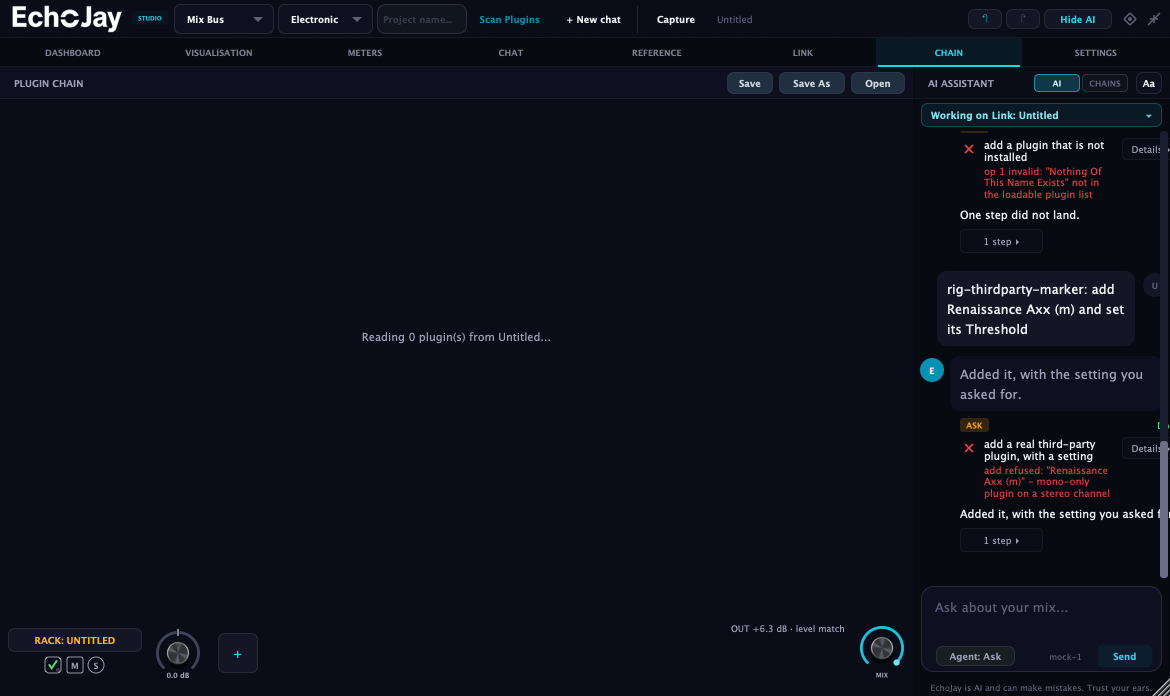
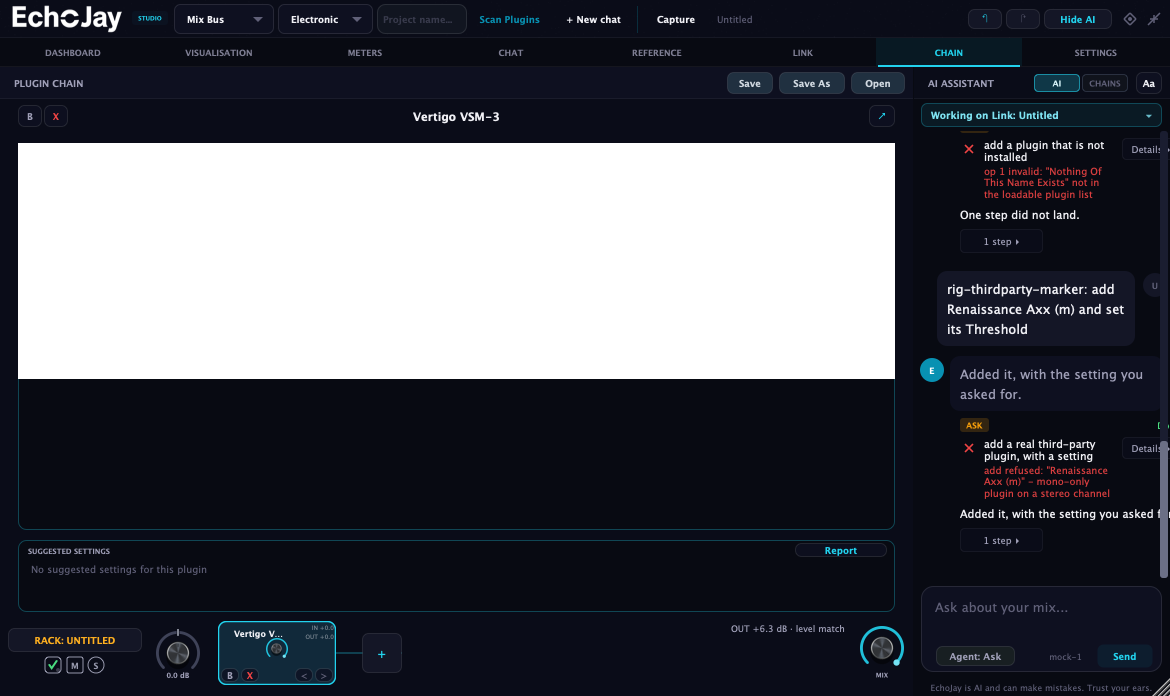
the shell's variant is a suffix, not a word
Waves writes it as "Waves: Renaissance Axx (m)" and "...(s)", and the scoring
looked only for the words stereo and mono - so both tied on zero, the first won,
and the catalogue got the MONO plugin. The rack then refused it on a stereo
channel, which left the out-of-process Links with nothing to hold and scenarios
A3 and A4 red for a fixture reason three passes running. link_host also prints
the shared directory it resolved and the uid it was given, so a Link that ends up
on a channel of its own says so in its own first line.

Claude-Session: https://claude.ai/code/session_01KMb1LgDAb1xE8VS5LCPwkk

diff --git a/tools/link_host/link_host.mm b/tools/link_host/link_host.mm
@@ -246,9 +246,17 @@ int main (int argc, char* argv[])
     const double sr = 48000.0;
     host.plugin->setPlayConfigDetails (2, 2, sr, 512);
     host.plugin->prepareToPlay (sr, 512);
-    std::printf ("link_host \"%s\": %s up, pid %d, state root %s\n",
-                 host.label.toRawUTF8(), found[0]->name.toRawUTF8(), (int) ::getpid(),
-                 echojay::userStateHome().getFullPathName().toRawUTF8());
+    {
+        // THE DIRECTORY THIS PROCESS RESOLVED, on its own line. A Link that ends up on a different
+        // shared directory from the V2 is invisible to it, and the only way to tell that from "it
+        // never registered" is to have both processes say where they are looking.
+        int derr = 0;
+        const auto sharedDir = LinkShm::resolveDir (derr);
+        std::printf ("link_host \"%s\": %s up, pid %d, state root %s, shared dir %s\n",
+                     host.label.toRawUTF8(), found[0]->name.toRawUTF8(), (int) ::getpid(),
+                     echojay::userStateHome().getFullPathName().toRawUTF8(),
+                     sharedDir.isEmpty() ? "(none)" : sharedDir.toRawUTF8());
+    }
     std::fflush (stdout);
 
     const auto cmdFile   = rigDir().getChildFile ("linkhost-" + host.label + "-cmd.json");
@@ -271,7 +279,13 @@ int main (int argc, char* argv[])
         juce::Timer::callPendingTimersSynchronously();
         CFRunLoopRunInMode (kCFRunLoopDefaultMode, 0.01, false);
 
-        if (host.uid.isEmpty()) host.uid = ownUid();
+        if (host.uid.isEmpty())
+        {
+            host.uid = ownUid();
+            if (host.uid.isNotEmpty())
+                { std::printf ("link_host \"%s\": uid %s\n", host.label.toRawUTF8(), host.uid.toRawUTF8());
+                  std::fflush (stdout); }
+        }
 
         // The prebuilt rack, once the instance has a uid to send to.
         if (! prebuilt && host.uid.isNotEmpty() && ! prebuild.isEmpty()

diff --git a/tools/host_rig/host_rig.mm b/tools/host_rig/host_rig.mm
@@ -117,8 +117,12 @@ static bool registerAU (const juce::File& component, juce::String& identOut,
             if (nv == nullptr) continue;
             const auto nm = juce::String::fromCFString (nv);
             if (! nm.containsIgnoreCase (wantName)) continue;
-            const int score = (nm.containsIgnoreCase ("stereo") ? 2 : 0)
-                            - (nm.containsIgnoreCase ("mono")   ? 2 : 0);
+            // WAVES WRITES IT AS A SUFFIX, NOT A WORD: "Waves: Renaissance Axx (m)" and
+            // "...(s)". The first cut scored only the words "stereo"/"mono", so both entries tied on
+            // zero, the first won, and the catalogue got the MONO plugin - which the rack then
+            // refused on a stereo channel, leaving the Link processes with nothing to hold.
+            const int score = (nm.endsWith ("(s)") || nm.containsIgnoreCase ("stereo") ? 2 : 0)
+                            - (nm.endsWith ("(m)") || nm.containsIgnoreCase ("mono")   ? 2 : 0);
             if (score > bestScore || (score == bestScore && nm.length() < bestLen))
             { bestScore = score; bestLen = nm.length(); best = i; }
         }
